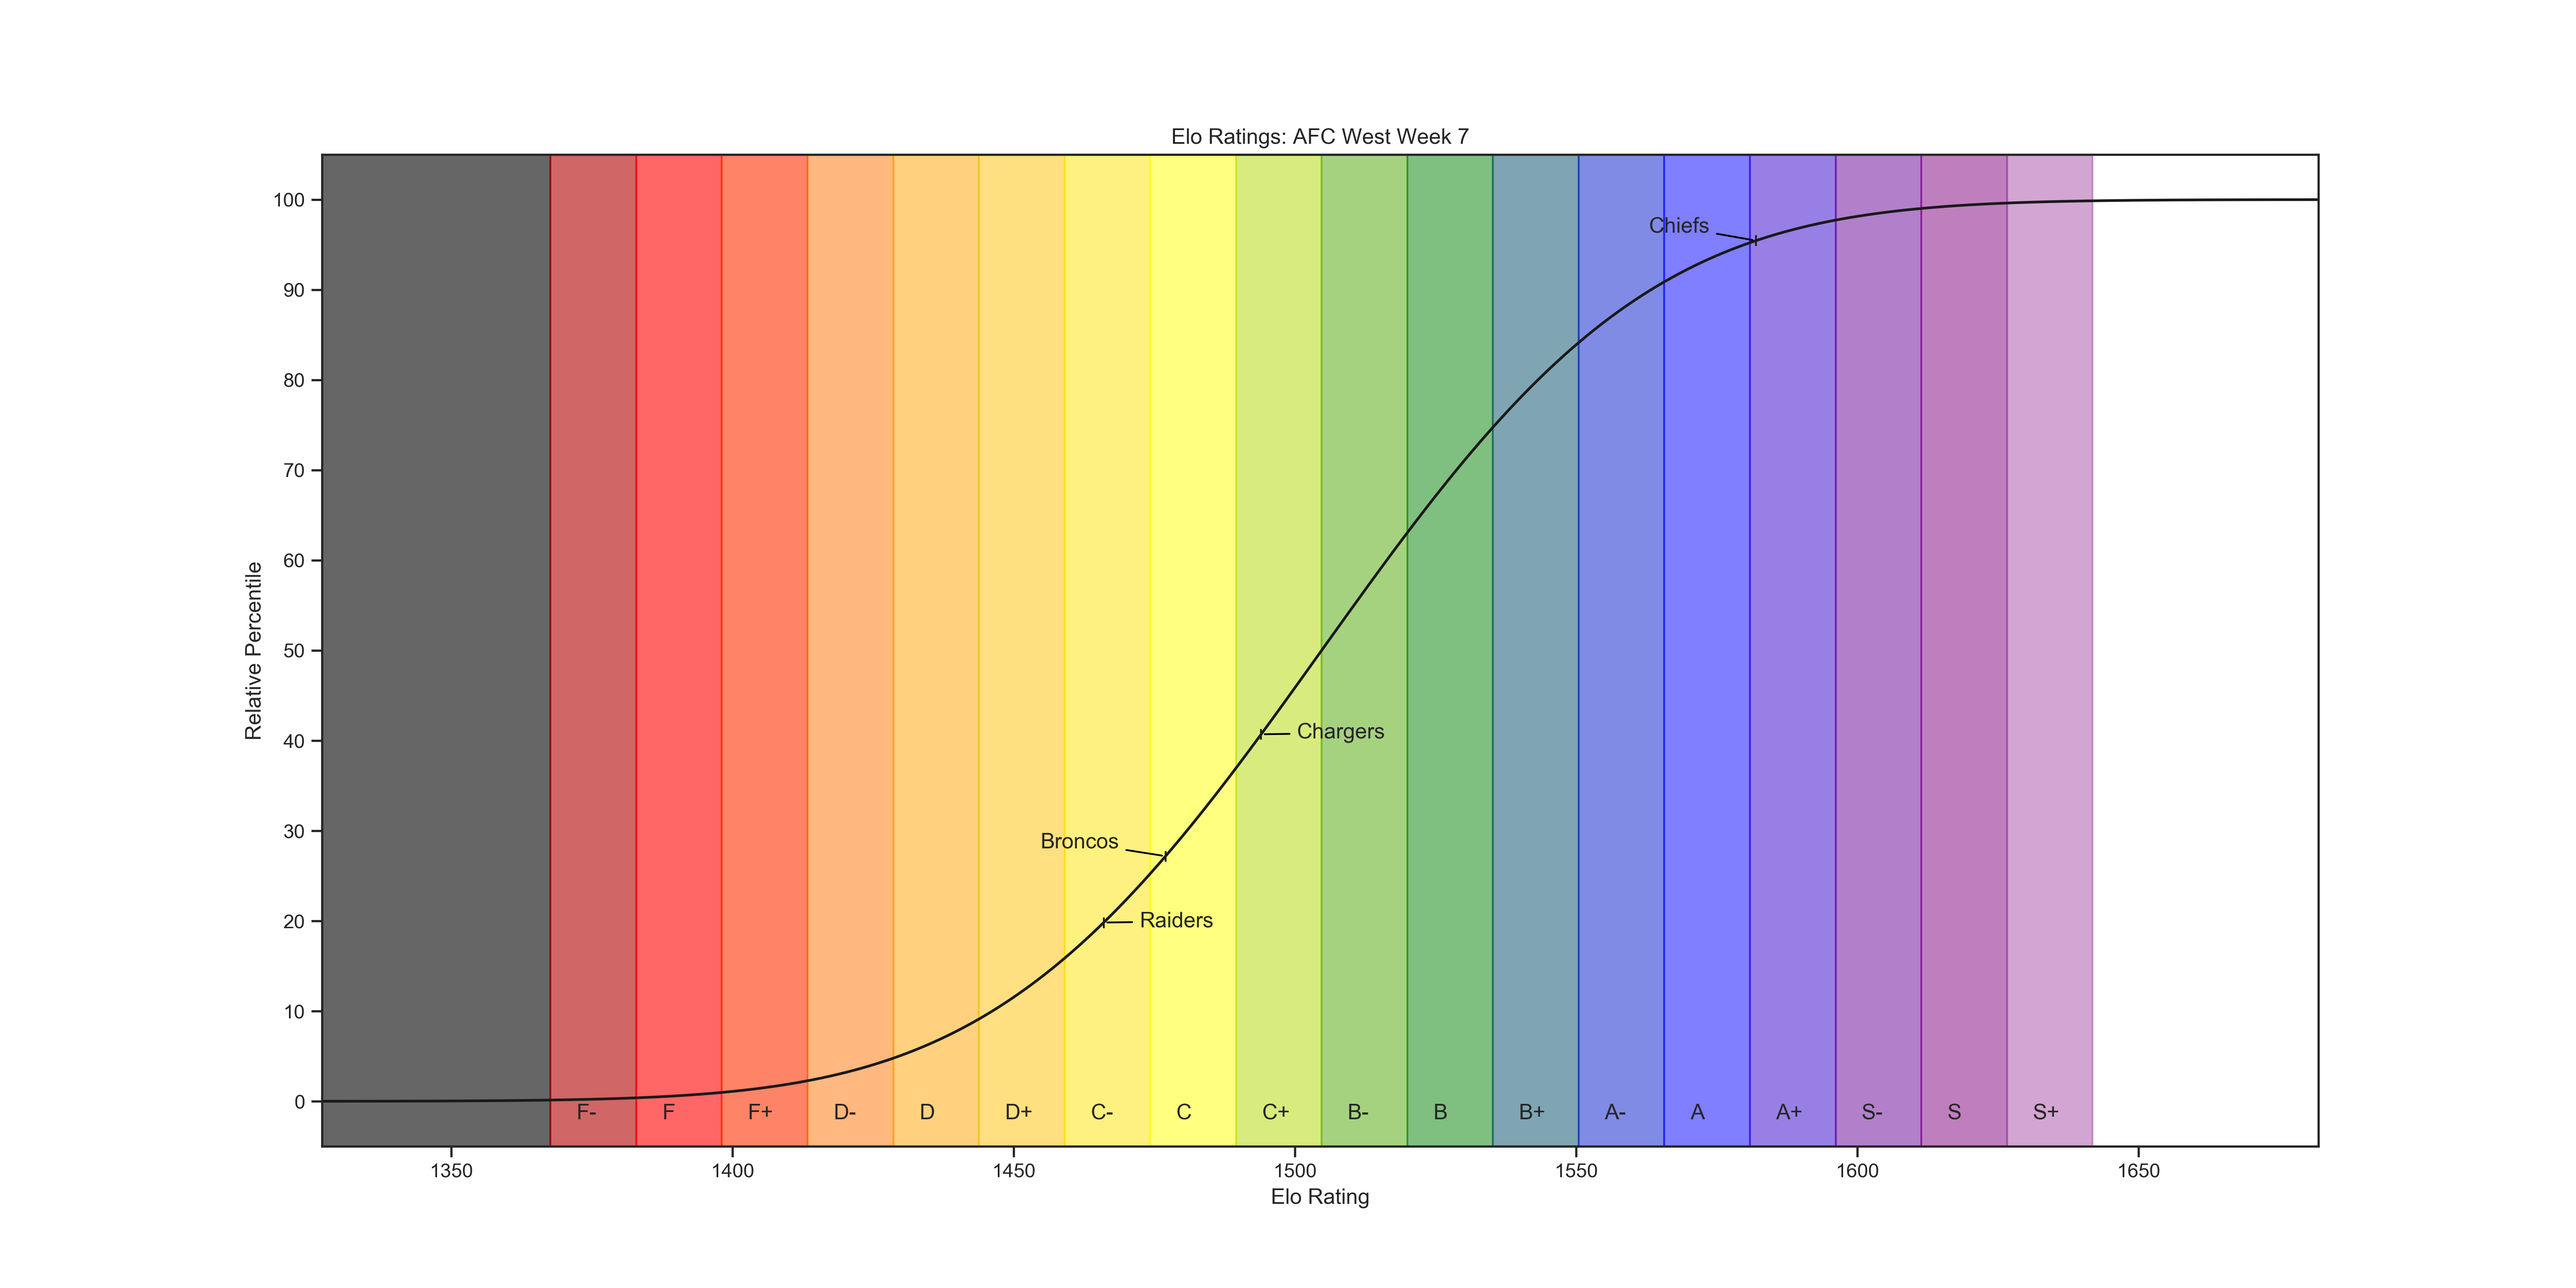
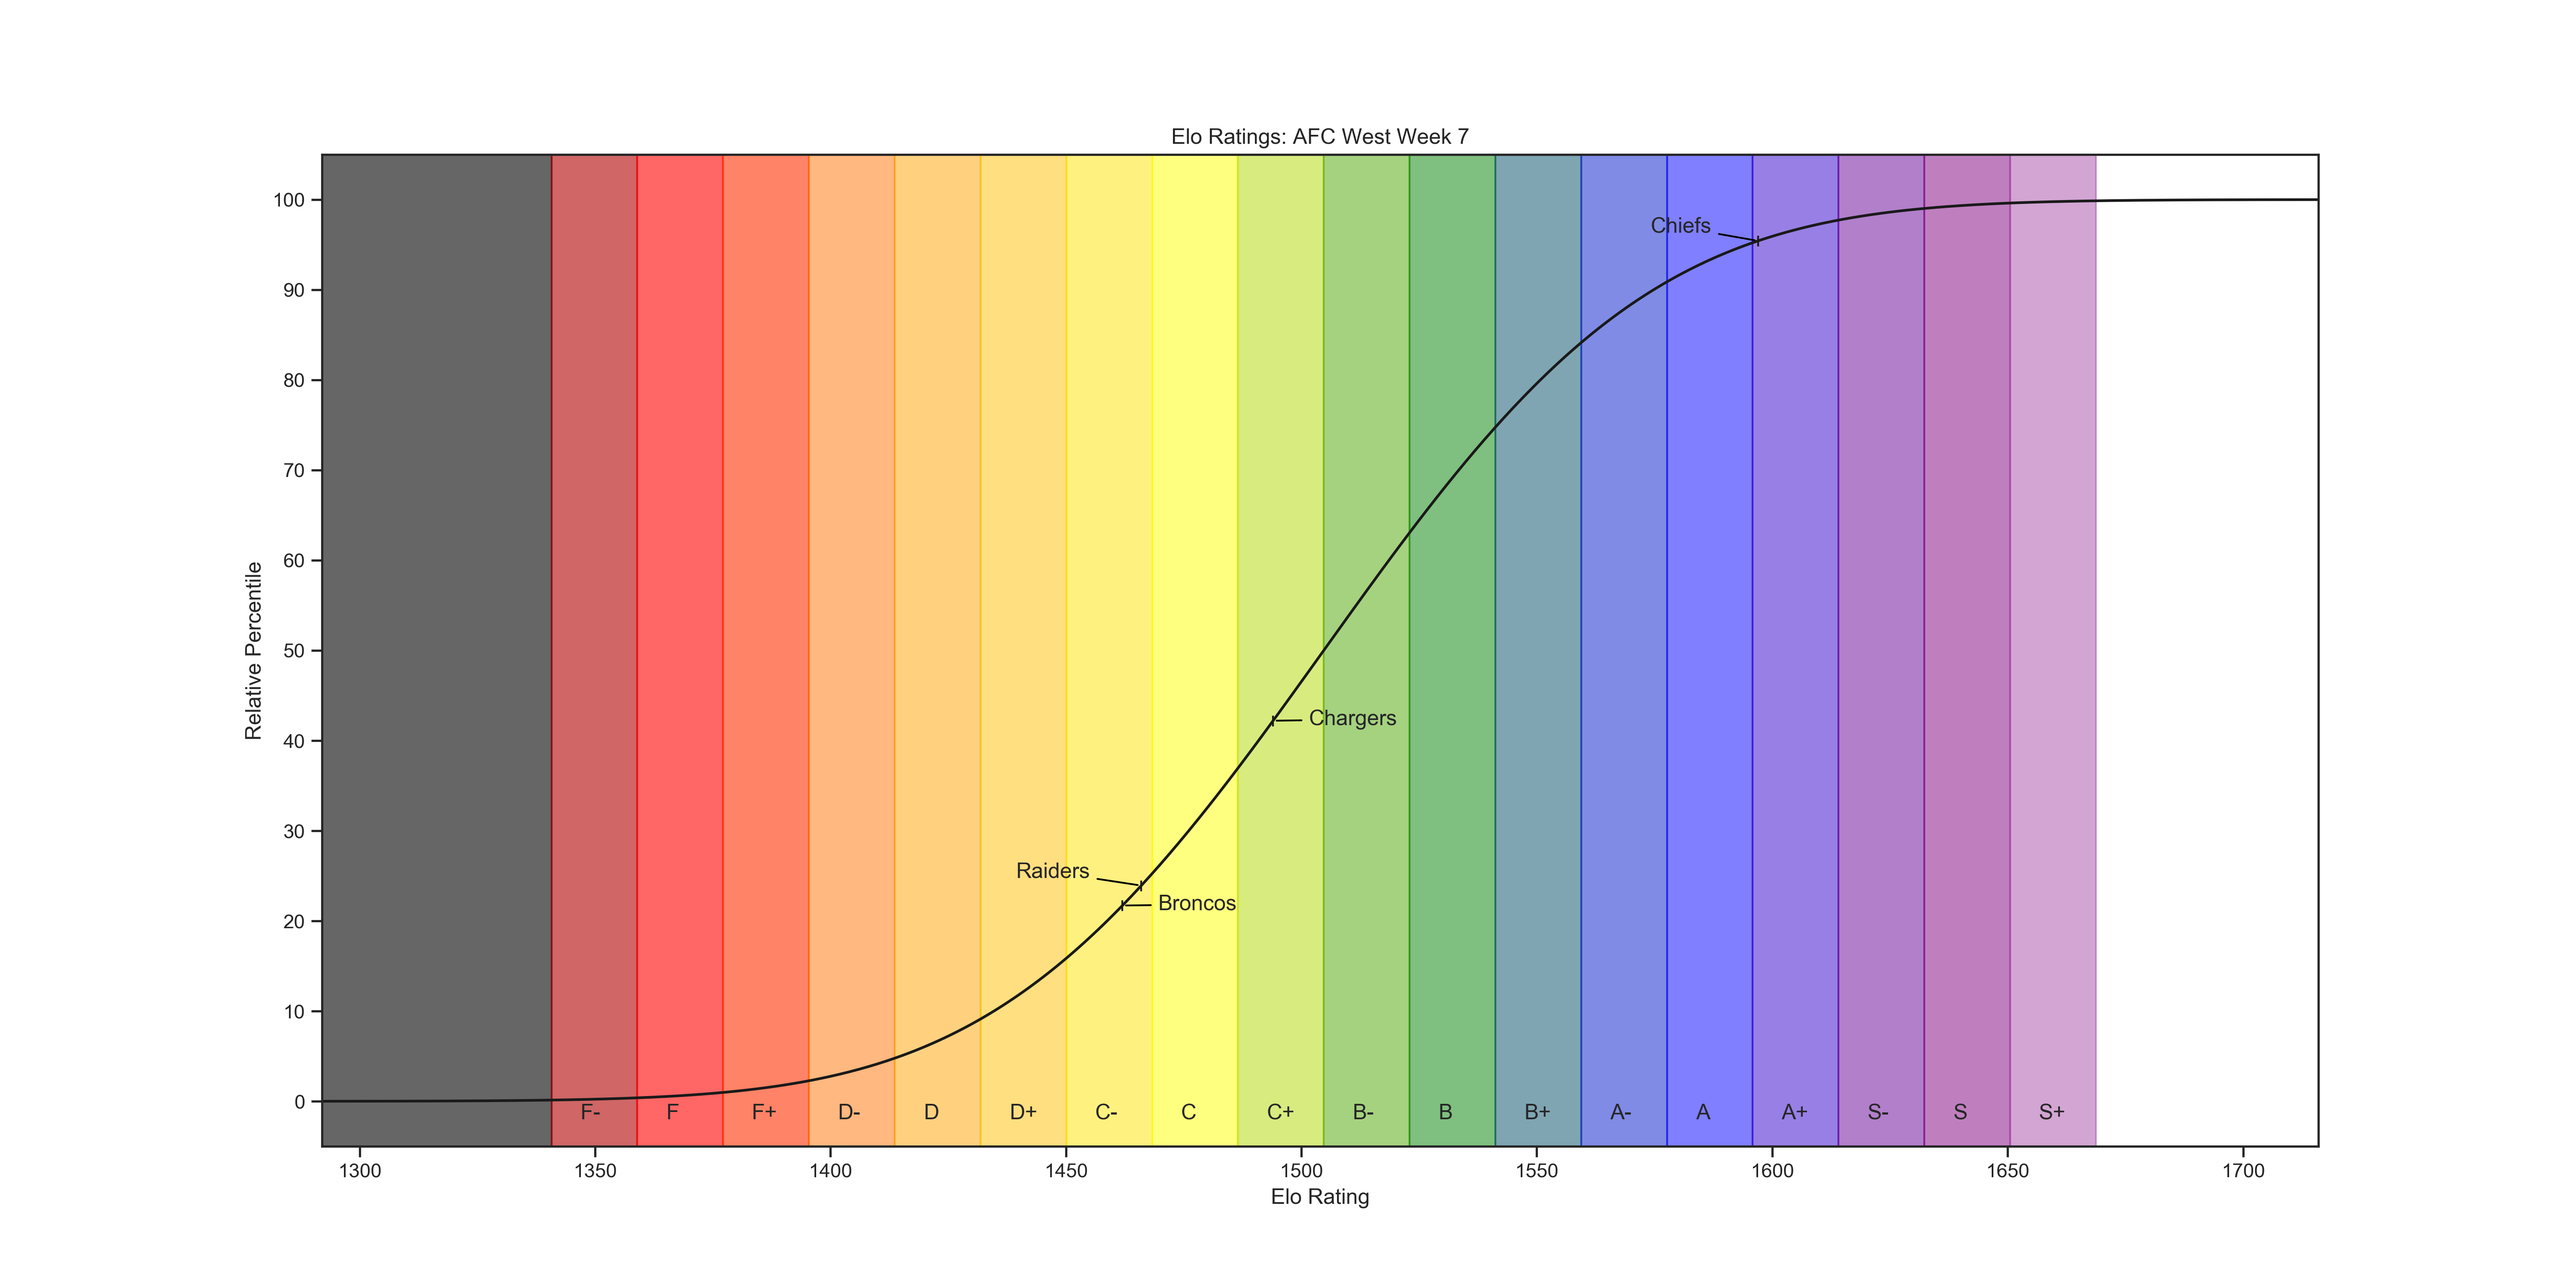
Added week 7 Thursday game

diff --git a/NFLSeason2019.py b/NFLSeason2019.py
@@ -716,27 +716,27 @@ def week_7(teams, week_end_date):
         Predictor.get_week_probabilities(teams, Playoffs.get_week7_schedule(week_end_date))
 
     # Results
-    # teams = set_game_outcome(teams,
-    #                          spread=0,
-    #                          home_name='Broncos',
-    #                          home_score=0,
-    #                          home_touchdowns=0,
-    #                          home_net_pass_yards=0,
-    #                          home_pass_completions=0,
-    #                          home_pass_attempts=0,
-    #                          home_pass_tds=0,
-    #                          home_interceptions_thrown=0,
-    #                          home_total_yards=0,
-    #                          away_name='Chiefs',
-    #                          away_score=0,
-    #                          away_touchdowns=0,
-    #                          away_net_pass_yards=0,
-    #                          away_pass_completions=0,
-    #                          away_pass_attempts=0,
-    #                          away_pass_tds=0,
-    #                          away_interceptions_thrown=0,
-    #                          away_total_yards=0)
-    #
+    teams = set_game_outcome(teams,
+                             spread=3,
+                             home_name='Broncos',
+                             home_score=6,
+                             home_touchdowns=1,
+                             home_net_pass_yards=134,
+                             home_pass_completions=21,
+                             home_pass_attempts=34,
+                             home_pass_tds=0,
+                             home_interceptions_thrown=0,
+                             home_total_yards=205,
+                             away_name='Chiefs',
+                             away_score=30,
+                             away_touchdowns=2,
+                             away_net_pass_yards=191,
+                             away_pass_completions=20,
+                             away_pass_attempts=30,
+                             away_pass_tds=2,
+                             away_interceptions_thrown=0,
+                             away_total_yards=271)
+
     # teams = set_game_outcome(teams, 0,
     #                          'Bills', 0, 0, 0, 0, 0, 0, 0, 0,
     #                          'Dolphins', 0, 0, 0, 0, 0, 0, 0, 0)
